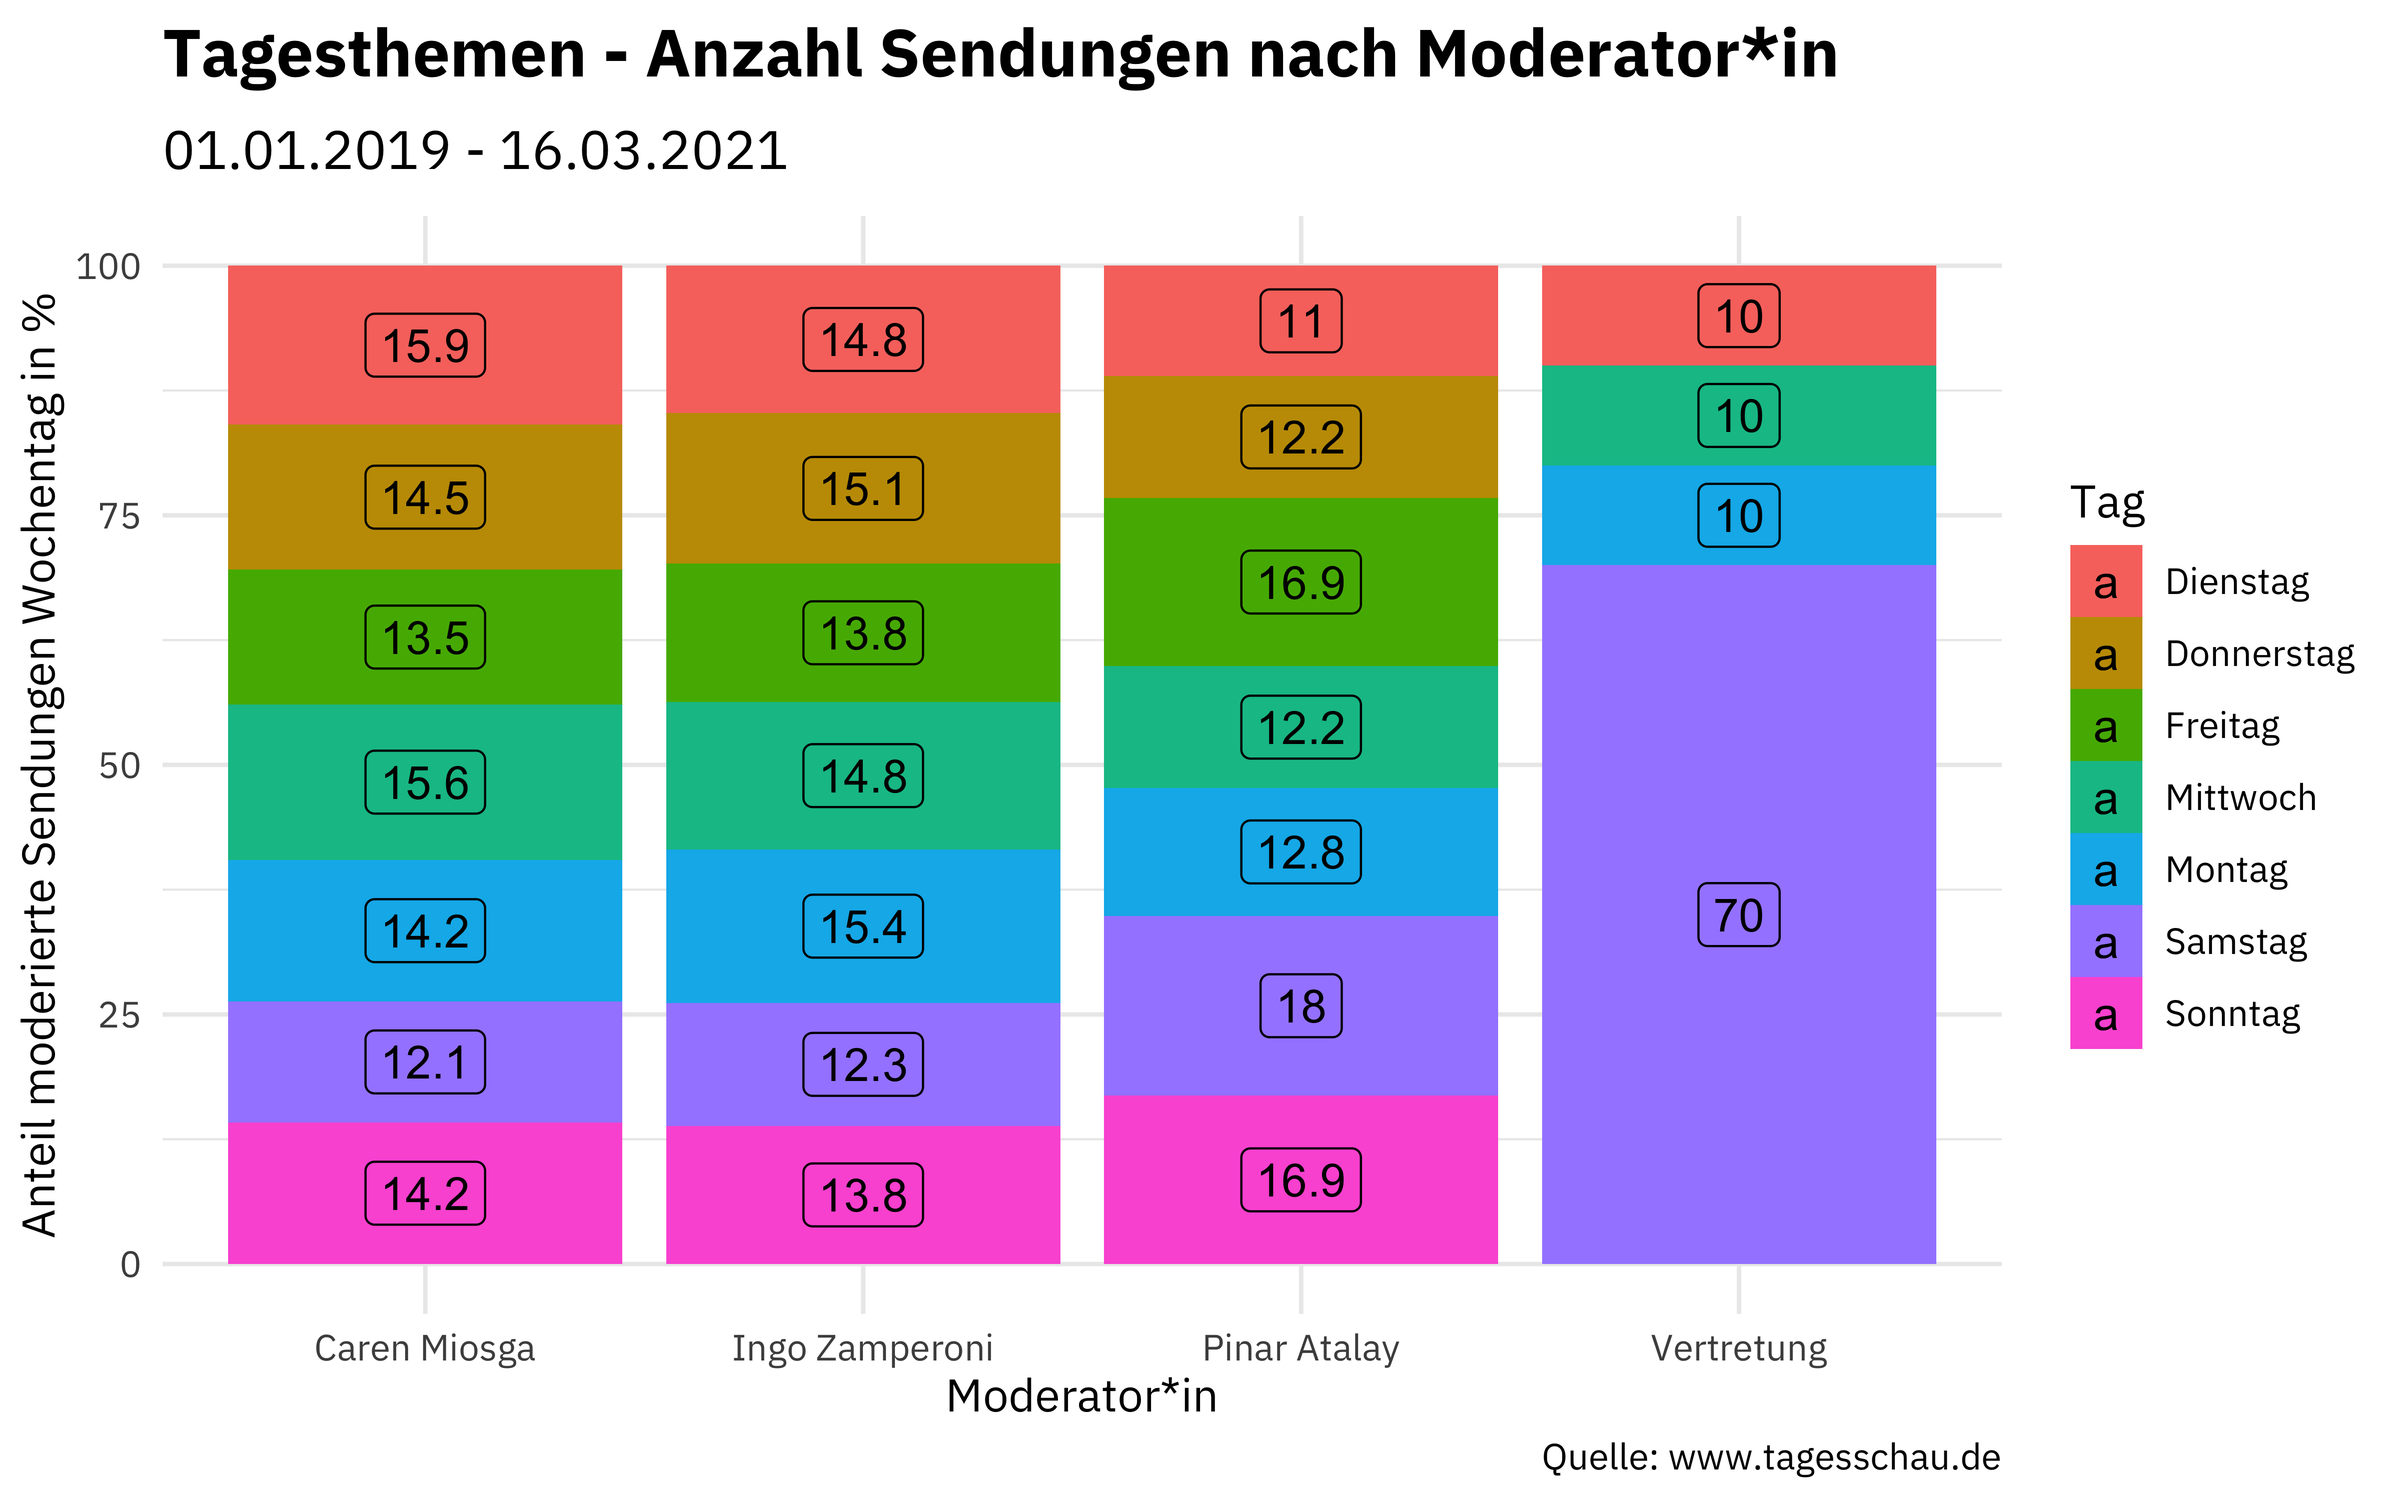
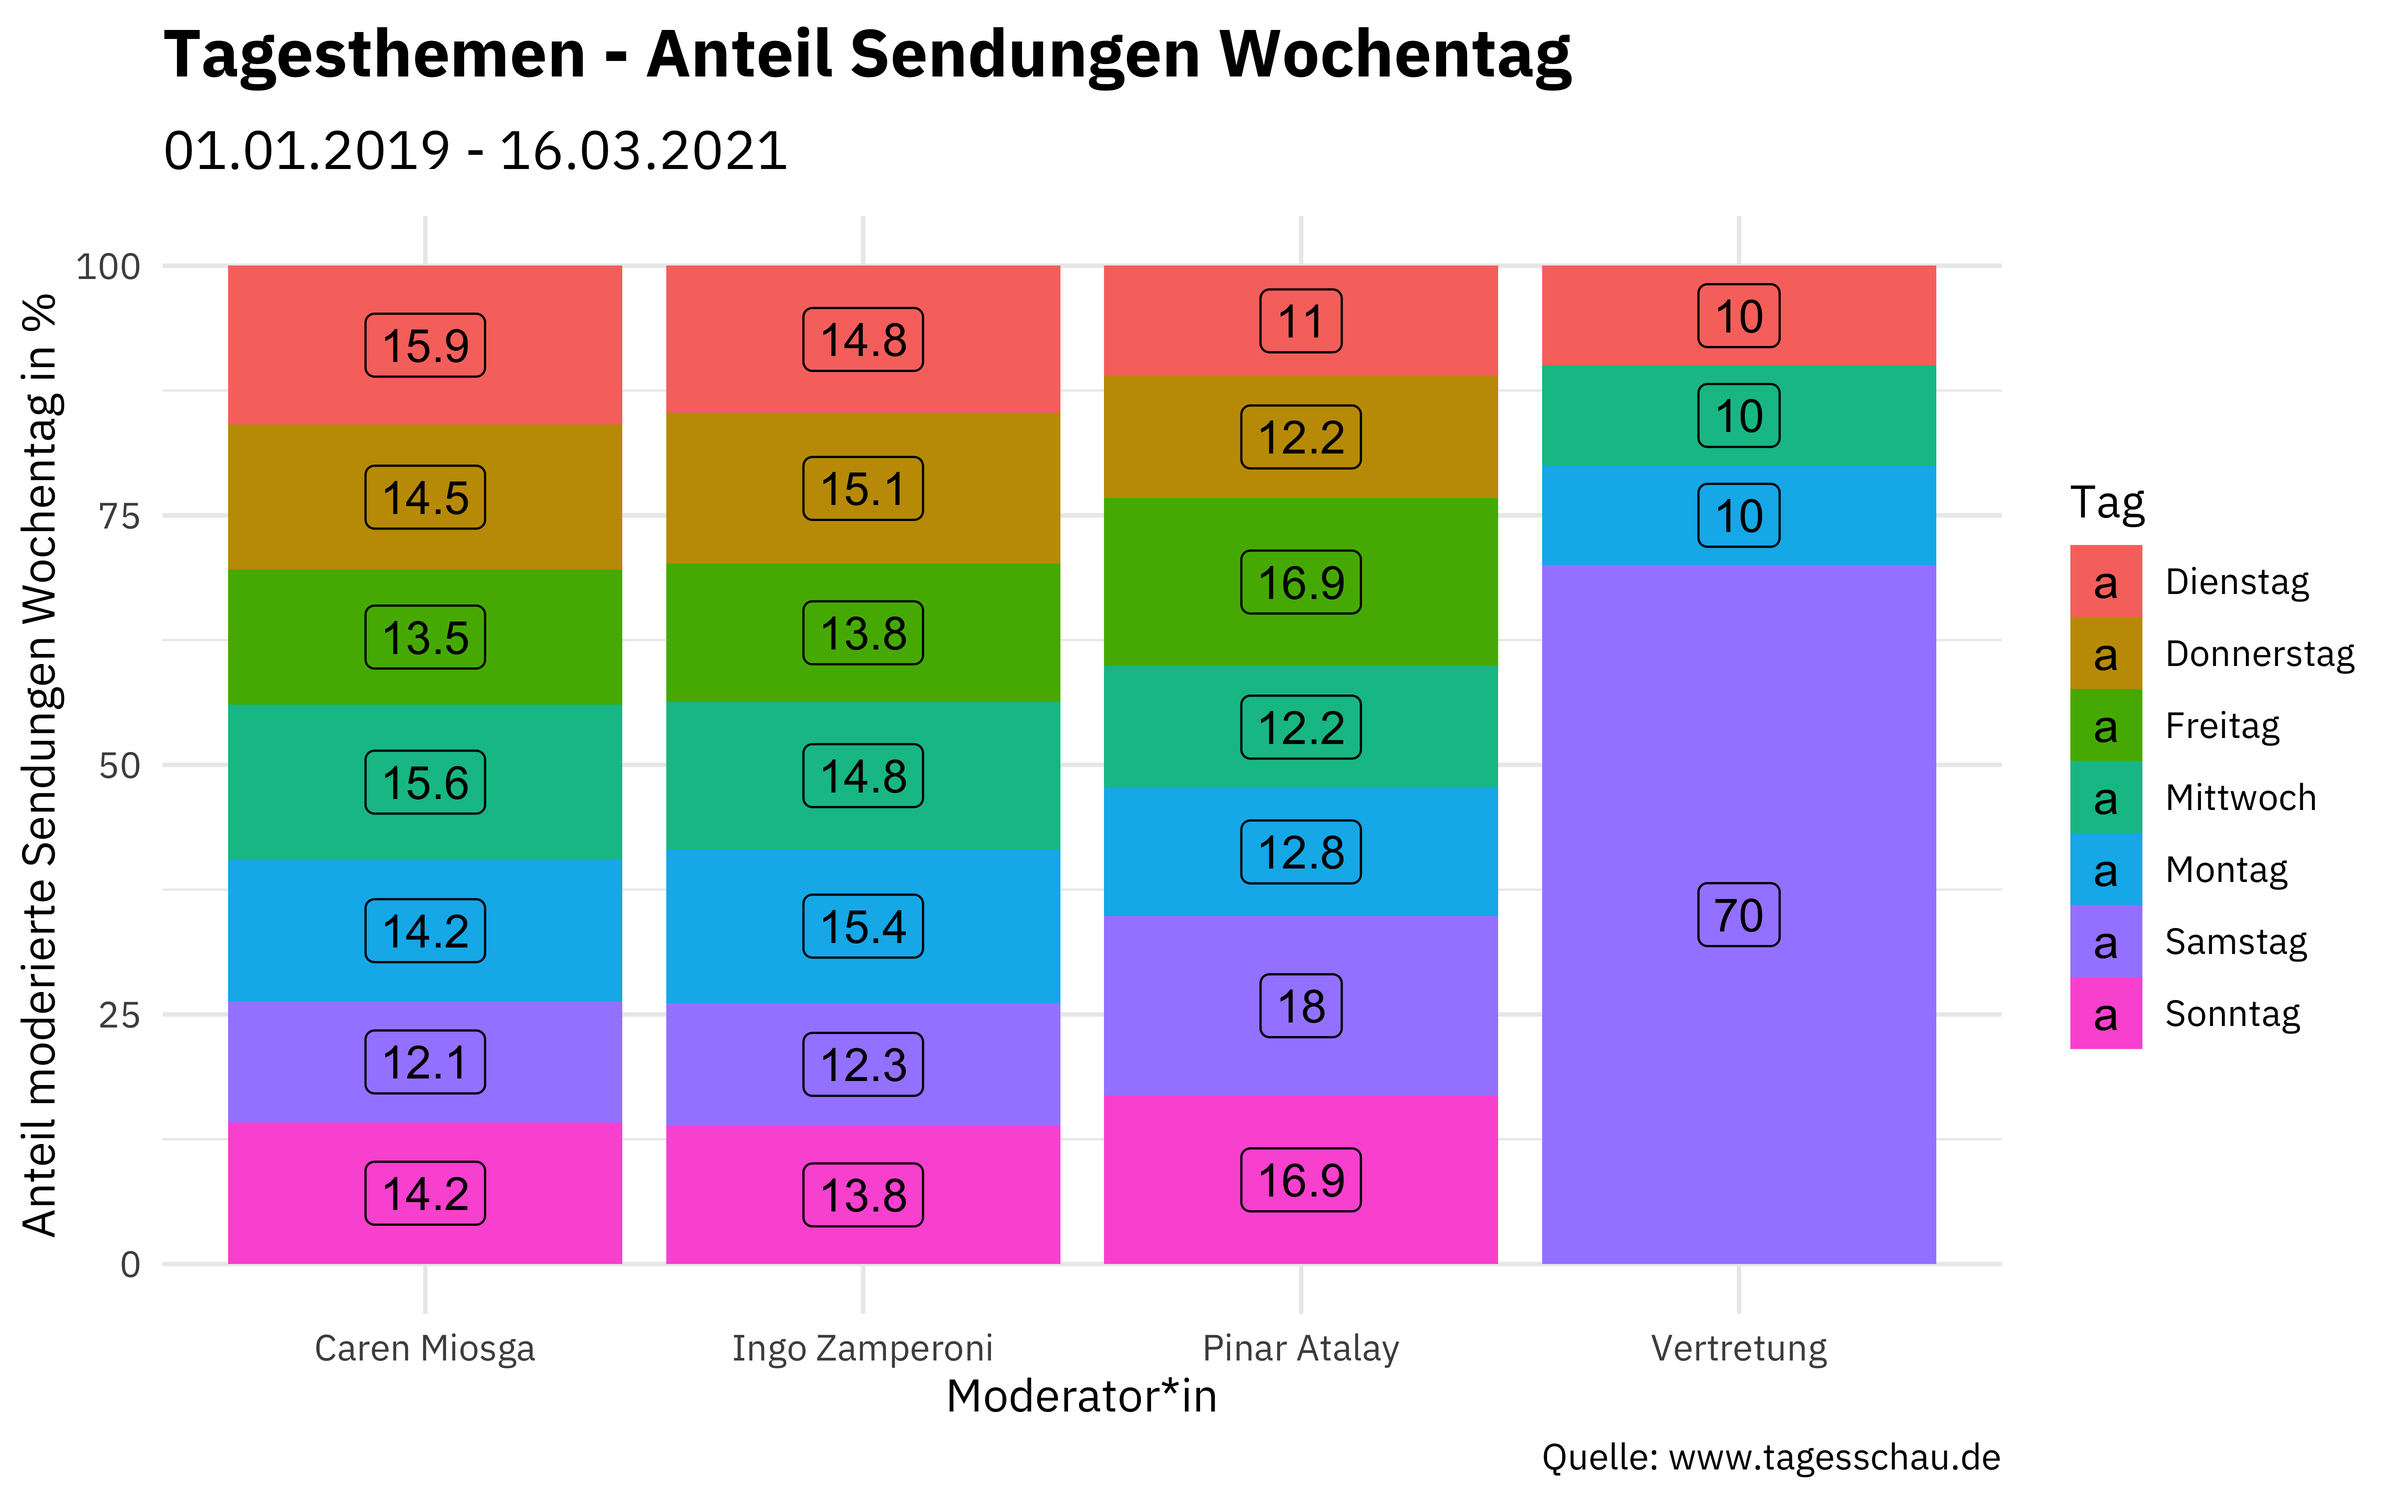
Update and Correction

Changed region(s): [[0.3125, 0.0, 0.7812, 0.062]]

diff --git a/content/posts/2021-05-09-exploratory-data-analysis/2021-05-14-exploratory-data-analysis.html b/content/posts/2021-05-09-exploratory-data-analysis/2021-05-14-exploratory-data-analysis.html
@@ -43,7 +43,7 @@ unique(tagesthemen$name)</code></pre>
   geom_label()</code></pre>
 <p><img src="/posts/2021-05-09-exploratory-data-analysis/2021-05-14-exploratory-data-analysis_files/figure-html/unnamed-chunk-2-1.png" width="2400" />
 Ingo Zamperoni hat die meisten Sendungen auf seinem Konto, gefolgt von Caren Miosga und Pinar Atalay.
-Aber das heißt noch nicht - die Frage ist ja auch, wie lange eine Sendung dauert?</p>
+Aber das heißt noch nichts - die Frage ist ja auch, wie lange eine Sendung dauert, also die Person im Einsatz ist?</p>
 <pre class="r"><code>tagesthemen %&gt;%
   filter(extra == 0) %&gt;%
   group_by(name) %&gt;%
@@ -52,12 +52,12 @@ Aber das heißt noch nicht - die Frage ist ja auch, wie lange eine Sendung dauer
   geom_bar(stat = &quot;identity&quot;, fill = &quot;midnightblue&quot;) +
   labs(
     x = &quot;Moderator*in&quot;, y = &quot;&quot;, caption = &quot;Quelle: www.tagesschau.de&quot;,
-    subtitle = &quot;01.01.2019 - 16.03.2021&quot;, title = &quot;Tagesthemen - durchschnittliche Sendedauer in min&quot;
+    subtitle = &quot;01.01.2019 - 16.03.2021&quot;, title = &quot;Tagesthemen - durchschnittliche Sendedauer in Minuten&quot;
   ) +
   theme_plex() +
   geom_label()</code></pre>
 <p><img src="/posts/2021-05-09-exploratory-data-analysis/2021-05-14-exploratory-data-analysis_files/figure-html/unnamed-chunk-3-1.png" width="2400" />
-Den Unterschied von 6 Sekunden kann man vernachlässigen. Caren Miosga und Ingo Zamperoni sind als im Durchschnitt länger im Einsatz als Pinar Atalay und die weiteren Vertreter*innen. Mit dem Wissen, dass die Sendungen von Freitag bis Sonntag im Durchschnitt kürzer sind, ist dies ein Hinweis darauf, dass letzgenannte Personen eher an diesen Tagen im Einsatz sind. Das ist einen Blick wert.</p>
+Den Unterschied von 6 Sekunden kann man vernachlässigen. Caren Miosga und Ingo Zamperoni sind also im Durchschnitt länger im Einsatz als Pinar Atalay und die weiteren Vertreter*innen. Mit dem Wissen, dass die Sendungen von Freitag bis Sonntag im Durchschnitt kürzer sind, ist dies ein Hinweis darauf, dass letzgenannte Personen eher an diesen Tagen im Einsatz sind. Das ist einen Blick wert.</p>
 <pre class="r"><code>tagesthemen %&gt;%
   group_by(name, day) %&gt;%
   count() %&gt;%
@@ -71,7 +71,7 @@ Den Unterschied von 6 Sekunden kann man vernachlässigen. Caren Miosga und Ingo 
   geom_label() +
   facet_wrap(. ~ name)</code></pre>
 <p><img src="/posts/2021-05-09-exploratory-data-analysis/2021-05-14-exploratory-data-analysis_files/figure-html/unnamed-chunk-4-1.png" width="2400" />
-Interessant; die Vermutung bestätigt sich. Um auf Nummer sicher zu gehen, werden die Werte nochmals relativiert.</p>
+Die Vermutung bestätigt sich. Um auf Nummer sicher zu gehen, werden die Werte nochmals relativiert.</p>
 <pre class="r"><code>tagesthemen %&gt;%
   filter(extra == 0) %&gt;%
   group_by(name, day) %&gt;%
@@ -85,12 +85,12 @@ Interessant; die Vermutung bestätigt sich. Um auf Nummer sicher zu gehen, werde
   geom_label(position = position_stack(vjust = 0.5)) +
   labs(
     x = &quot;Moderator*in&quot;, y = &quot;Anteil moderierte Sendungen Wochentag in %&quot;, caption = &quot;Quelle: www.tagesschau.de&quot;,
-    subtitle = &quot;01.01.2019 - 16.03.2021&quot;, title = &quot;Tagesthemen - Anzahl Sendungen nach Moderator*in&quot;,
+    subtitle = &quot;01.01.2019 - 16.03.2021&quot;, title = &quot;Tagesthemen - Anteil Sendungen Wochentag&quot;,
     fill = &quot;Tag&quot;
   ) +
   theme_plex()</code></pre>
-<p><img src="/posts/2021-05-09-exploratory-data-analysis/2021-05-14-exploratory-data-analysis_files/figure-html/unnamed-chunk-5-1.png" width="2400" />
-Als Fan von Pinar Atalay hat man also von Freitag bis Samstag die besten Chancen sie zu sehen. mehr als 50% der durch sie moderierten Tagesthemen hat sie an diesen Wochentagen absolviert. Insbesondere der Samstag ist hingegen bei Caren Miosga und Ingo Zamperoni relativ gesehen weniger häufig.</p>
+<p><img src="/posts/2021-05-09-exploratory-data-analysis/2021-05-14-exploratory-data-analysis_files/figure-html/unnamed-chunk-5-1.png" width="2400" /></p>
+<p>Als Fan von Pinar Atalay hat man also von Freitag bis Samstag die besten Chancen sie zu sehen. mehr als 50% der durch sie moderierten Tagesthemen hat sie an diesen Wochentagen absolviert. Insbesondere der Samstag ist hingegen bei Caren Miosga und Ingo Zamperoni relativ gesehen weniger häufig.</p>
 <p>Es drängt sich die Frage nach dem Dienstplan der Modertor*innen auf; dieser wird jetzt unter die Lupe genommen.</p>
 <pre class="r"><code>tagesthemen %&gt;%
   ggplot(aes(x = date, y = name)) +
